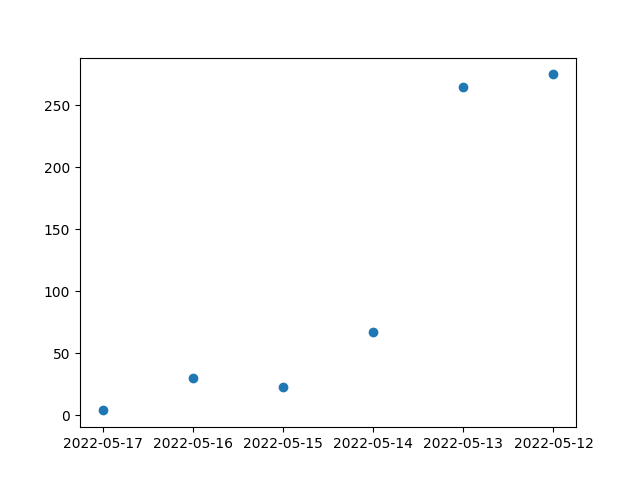
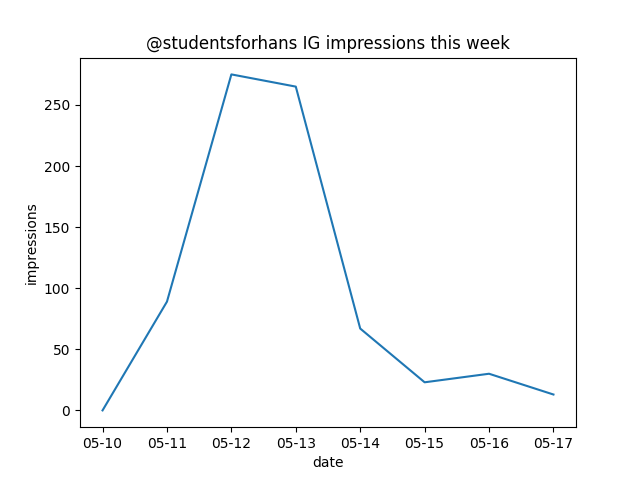
reversed values and better labels for plot

diff --git a/templates/fig.html b/templates/fig.html
@@ -5,6 +5,7 @@
     </head>
     <title>home</title>
     <body>
+        <center>
         <img src="static/graph.png">
         <script src="https://code.jquery.com/jquery-3.3.1.slim.min.js" integrity="sha384-q8i/X+965DzO0rT7abK41JStQIAqVgRVzpbzo5smXKp4YfRvH+8abtTE1Pi6jizo" crossorigin="anonymous"></script>
         <script src="https://cdnjs.cloudflare.com/ajax/libs/popper.js/1.14.7/umd/popper.min.js" integrity="sha384-UO2eT0CpHqdSJQ6hJty5KVphtPhzWj9WO1clHTMGa3JDZwrnQq4sF86dIHNDz0W1" crossorigin="anonymous"></script>

diff --git a/fetch.py b/fetch.py
@@ -33,17 +33,19 @@ def fetch_insights():
 
     imps = []
     dates = []
-    while data['data'][0]['values'][0]['value'] > 0:
+    i = 0
+    while i < 4:
         imps.append(data['data'][0]['values'][1]['value'])
         imps.append(data['data'][0]['values'][0]['value'])
-        dates.append(data['data'][0]['values'][1]['end_time'])
-        dates.append(data['data'][0]['values'][0]['end_time'])
+        dates.append(data['data'][0]['values'][1]['end_time'].split("T")[0].split("022-")[1])
+        dates.append(data['data'][0]['values'][0]['end_time'].split("T")[0].split("022-")[1])
         data = json.loads(requests.get(data['paging']['previous']).content)
+        i+=1
 
     df = pd.DataFrame()
-    df['impressions'] = imps
-    df['end_times'] = dates
-    df['end_times'] = df['end_times'].apply(lambda x : x.split("T")[0])
+    df['impressions'] = imps[::-1]
+    df['end_times'] = dates[::-1]
+    #df['end_times'] = df['end_times'].apply(lambda x : x.split("T")[0])
     return df
 
 def get_df():

diff --git a/app.py b/app.py
@@ -8,7 +8,11 @@ app = Flask(__name__)
 @app.route("/")
 def hello_world():
     data = fetch.get_df()
-    plt.scatter(data['end_times'],data['impressions'])
+    plt.plot(data['end_times'],data['impressions'])
+    plt.title("@studentsforhans IG impressions this week")
+    plt.xlabel("date")
+    plt.ylabel("impressions")
+    # REMEMBER IT's END TIME T7????
     plt.savefig("static/graph.png")
     plt.close() 
     return render_template("fig.html")
